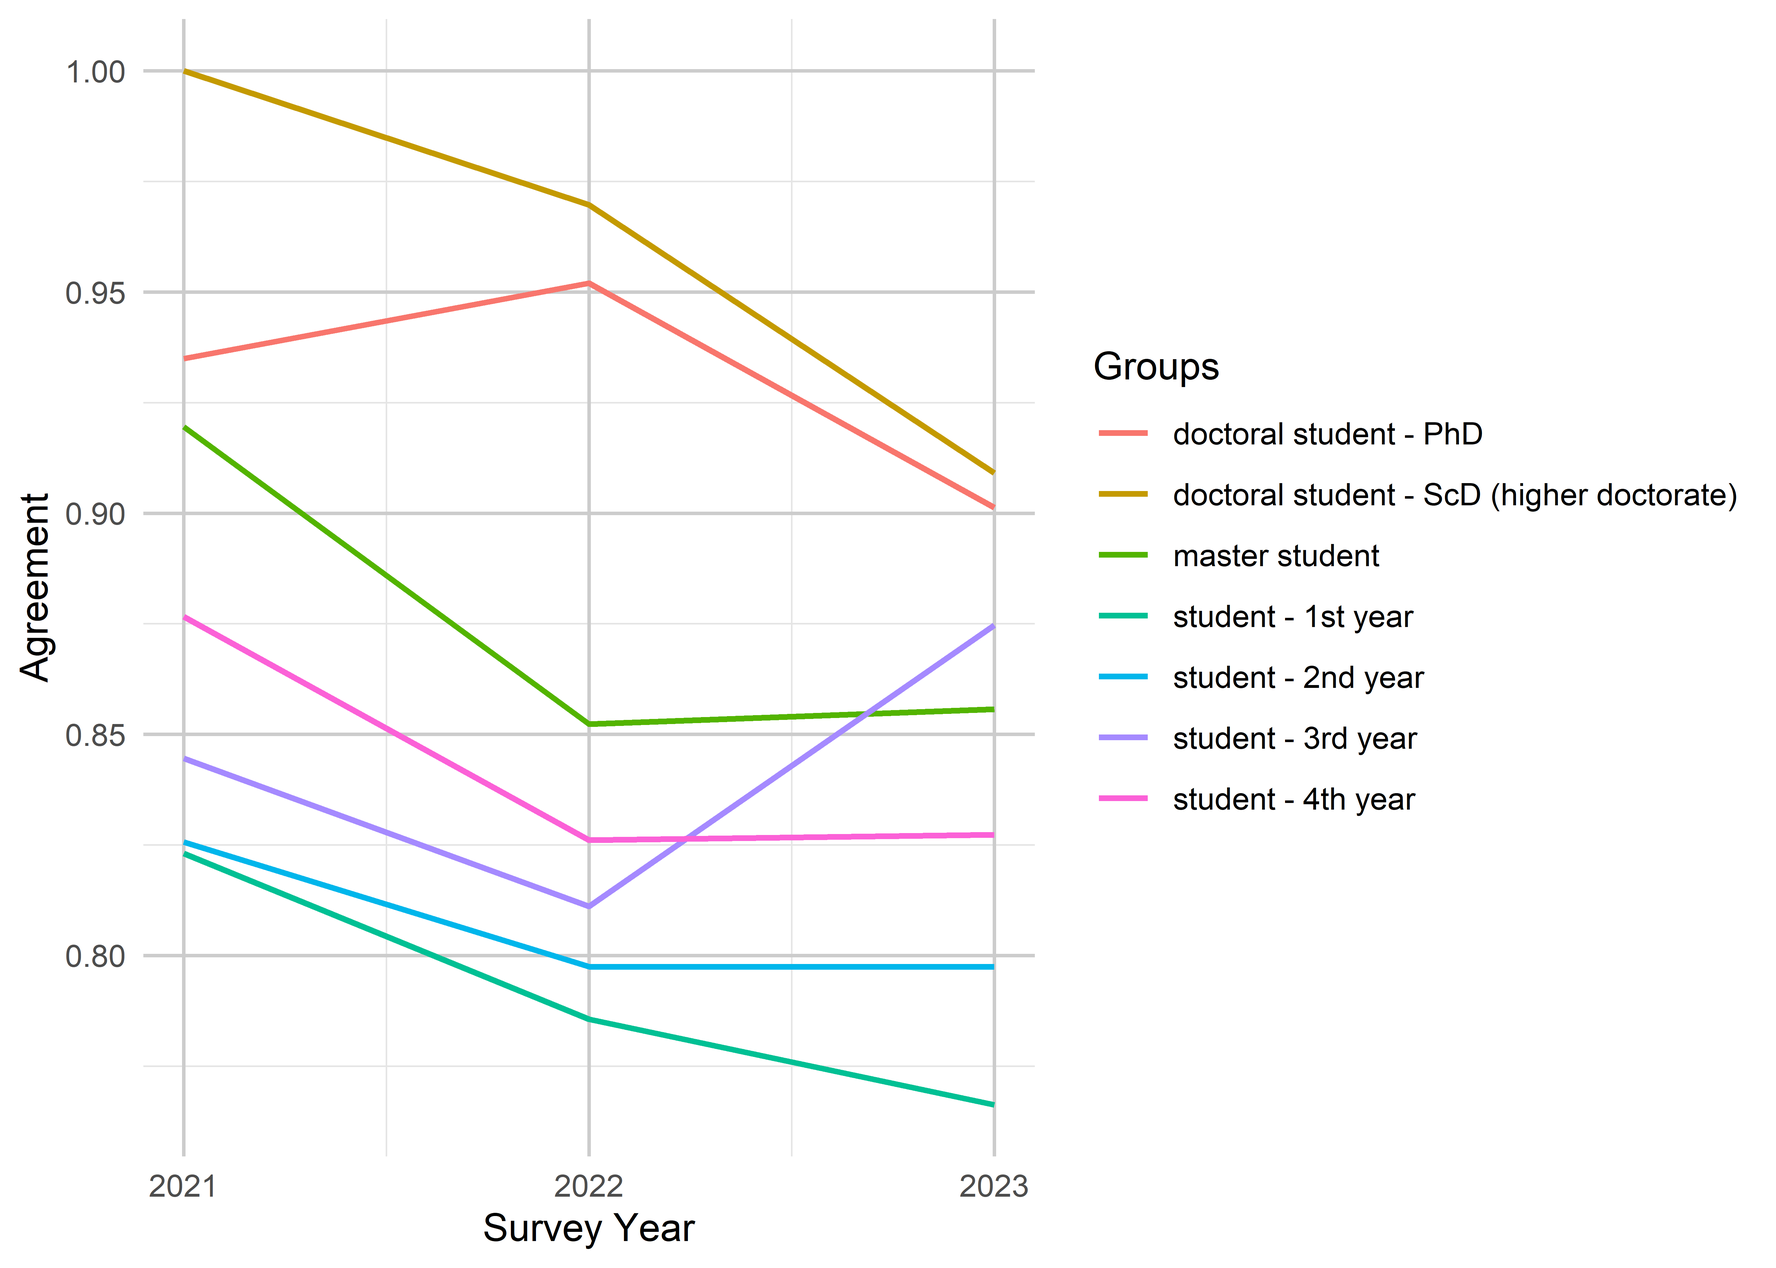
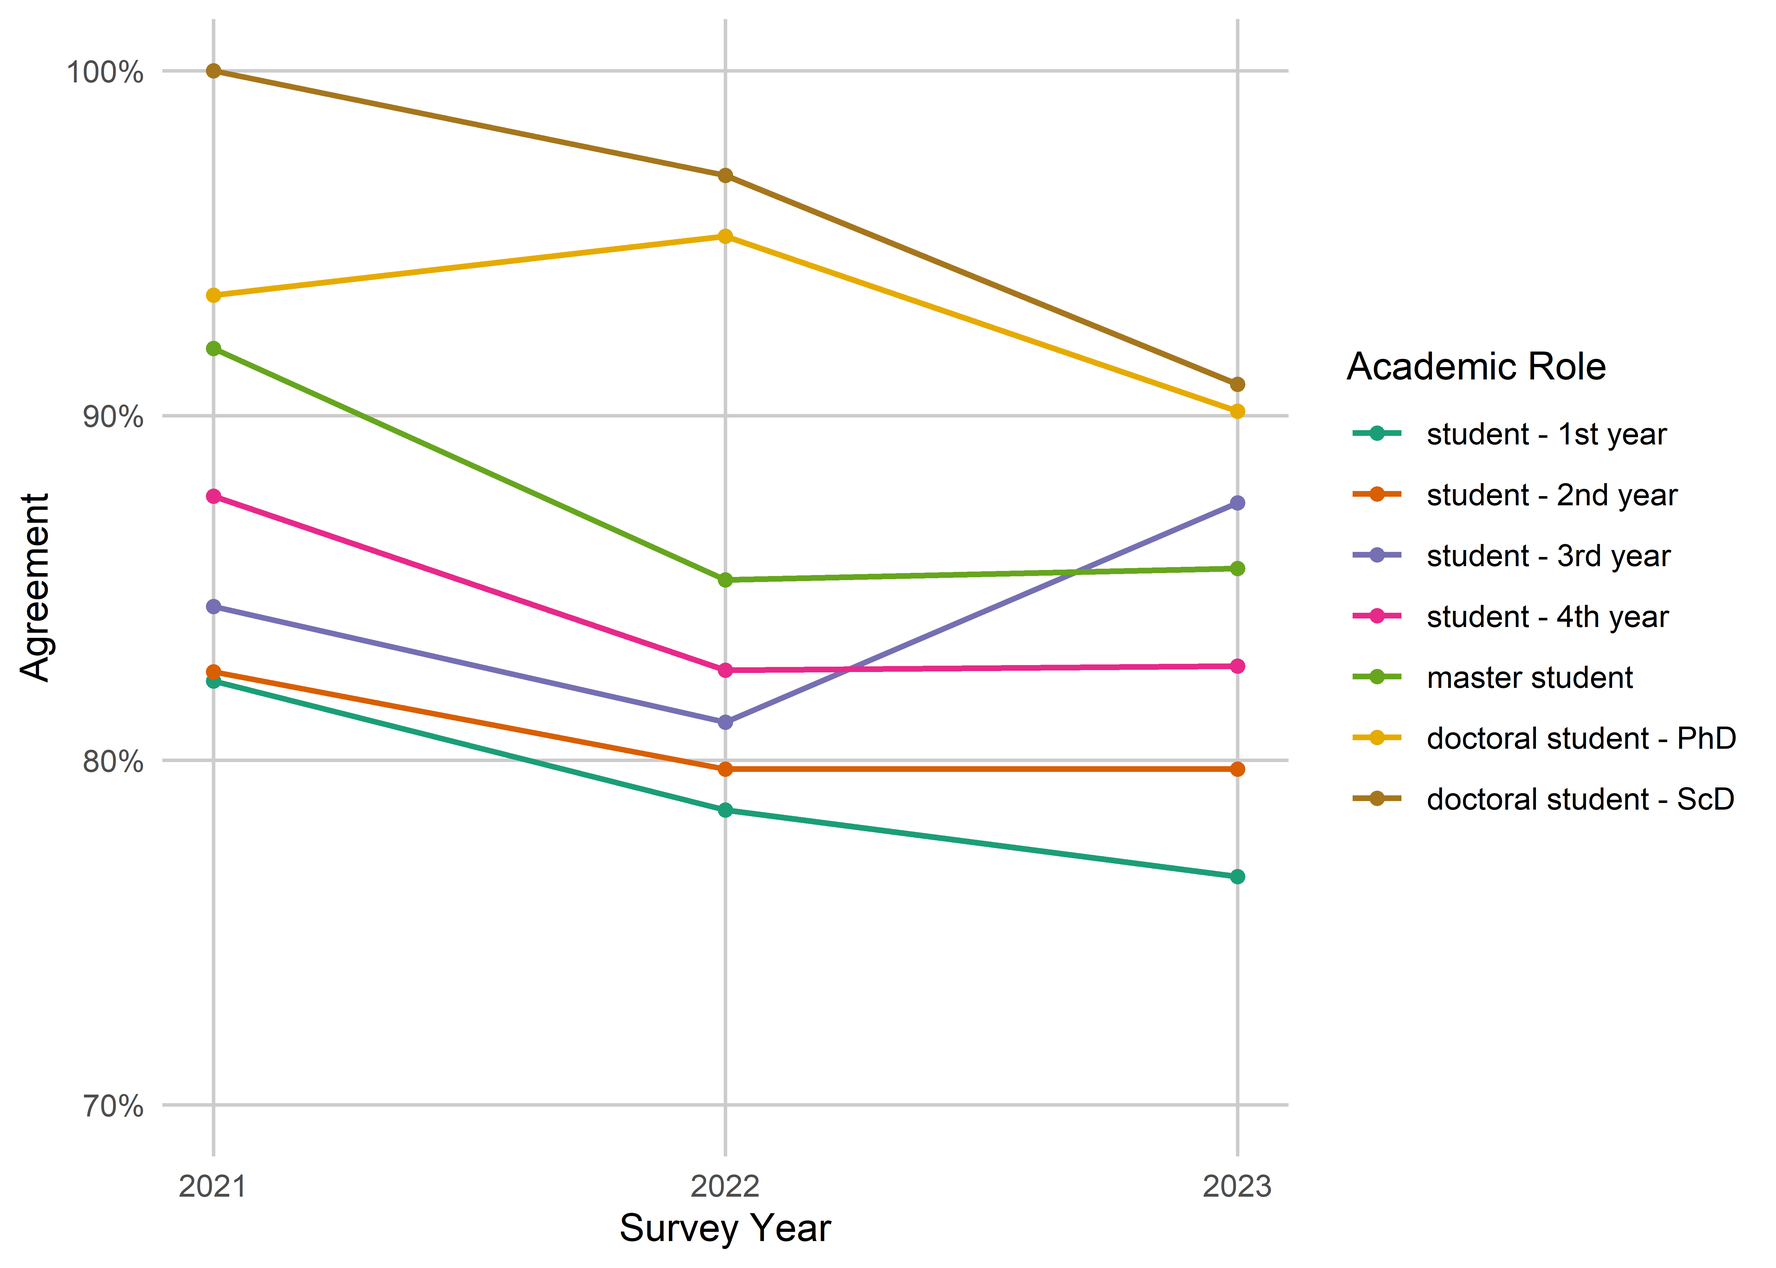
Explore more visualization options

diff --git a/analysis_notebooks/survey_analysis.html b/analysis_notebooks/survey_analysis.html
@@ -844,38 +844,78 @@ pre > code.sourceCode > span > a:first-child::before { text-decoration: underlin
 <section id="comparison-between-groups" class="level1">
 <h1>Comparison Between Groups</h1>
 <div class="cell">
-<div class="sourceCode cell-code" id="cb27"><pre class="sourceCode r code-with-copy"><code class="sourceCode r"><span id="cb27-1"><a href="#cb27-1" aria-hidden="true" tabindex="-1"></a>groups <span class="ot">&lt;-</span> df <span class="sc">%&gt;%</span> </span>
-<span id="cb27-2"><a href="#cb27-2" aria-hidden="true" tabindex="-1"></a>  <span class="co"># Dichotomize agreement</span></span>
-<span id="cb27-3"><a href="#cb27-3" aria-hidden="true" tabindex="-1"></a>  <span class="fu">mutate</span>(<span class="at">X52d =</span> <span class="fu">case_when</span>(</span>
-<span id="cb27-4"><a href="#cb27-4" aria-hidden="true" tabindex="-1"></a>    <span class="fu">str_detect</span>(X52, <span class="st">"</span><span class="sc">\\</span><span class="st">sagree$"</span>) <span class="sc">~</span> <span class="st">"agree"</span>,</span>
-<span id="cb27-5"><a href="#cb27-5" aria-hidden="true" tabindex="-1"></a>    <span class="fu">str_detect</span>(X52, <span class="st">"</span><span class="sc">\\</span><span class="st">sdisagree$"</span>) <span class="sc">~</span> <span class="st">"disagree"</span>,</span>
-<span id="cb27-6"><a href="#cb27-6" aria-hidden="true" tabindex="-1"></a>    <span class="fu">is.na</span>(X52) <span class="sc">~</span> <span class="st">"NA"</span>,</span>
-<span id="cb27-7"><a href="#cb27-7" aria-hidden="true" tabindex="-1"></a>    <span class="cn">TRUE</span> <span class="sc">~</span> X52)) <span class="sc">%&gt;%</span> </span>
-<span id="cb27-8"><a href="#cb27-8" aria-hidden="true" tabindex="-1"></a>  <span class="co"># Filter to calculate proportions of those that knew a response</span></span>
-<span id="cb27-9"><a href="#cb27-9" aria-hidden="true" tabindex="-1"></a>  <span class="fu">filter</span>(X52d <span class="sc">%in%</span> <span class="fu">c</span>(<span class="st">"agree"</span>, <span class="st">"disagree"</span>)) <span class="sc">%&gt;%</span> </span>
-<span id="cb27-10"><a href="#cb27-10" aria-hidden="true" tabindex="-1"></a>  <span class="fu">group_by</span>(X8, X64) <span class="sc">%&gt;%</span> </span>
-<span id="cb27-11"><a href="#cb27-11" aria-hidden="true" tabindex="-1"></a>  <span class="fu">summarise</span>(<span class="at">perc =</span> <span class="fu">sum</span>(X52d <span class="sc">==</span> <span class="st">"agree"</span>) <span class="sc">/</span> <span class="fu">n</span>()) <span class="sc">%&gt;%</span> </span>
-<span id="cb27-12"><a href="#cb27-12" aria-hidden="true" tabindex="-1"></a>  <span class="fu">ungroup</span>()</span>
-<span id="cb27-13"><a href="#cb27-13" aria-hidden="true" tabindex="-1"></a></span>
-<span id="cb27-14"><a href="#cb27-14" aria-hidden="true" tabindex="-1"></a>students <span class="ot">&lt;-</span> groups <span class="sc">%&gt;%</span> </span>
-<span id="cb27-15"><a href="#cb27-15" aria-hidden="true" tabindex="-1"></a>  <span class="fu">filter</span>(<span class="fu">str_detect</span>(X8, <span class="st">"student"</span>))</span>
-<span id="cb27-16"><a href="#cb27-16" aria-hidden="true" tabindex="-1"></a></span>
-<span id="cb27-17"><a href="#cb27-17" aria-hidden="true" tabindex="-1"></a>staff <span class="ot">&lt;-</span> groups <span class="sc">%&gt;%</span> </span>
-<span id="cb27-18"><a href="#cb27-18" aria-hidden="true" tabindex="-1"></a>  <span class="fu">filter</span>(<span class="sc">!</span><span class="fu">str_detect</span>(X8, <span class="st">"student"</span>))</span></code><button title="Copy to Clipboard" class="code-copy-button"><i class="bi"></i></button></pre></div>
+<div class="sourceCode cell-code" id="cb27"><pre class="sourceCode r code-with-copy"><code class="sourceCode r"><span id="cb27-1"><a href="#cb27-1" aria-hidden="true" tabindex="-1"></a>df<span class="sc">$</span>X8 <span class="ot">&lt;-</span> <span class="fu">factor</span>(df<span class="sc">$</span>X8, <span class="at">levels =</span> <span class="fu">c</span>(<span class="st">"student - 1st year"</span>, <span class="st">"student - 2nd year"</span>, <span class="st">"student - 3rd year"</span>, <span class="st">"student - 4th year"</span>, <span class="st">"master student"</span>, <span class="st">"doctoral student - PhD"</span>, <span class="st">"doctoral student - ScD (higher doctorate)"</span>, <span class="st">"faculty"</span>, <span class="st">"research staff"</span>, <span class="st">"university administrator"</span>, <span class="st">"librarian"</span>, <span class="st">"other"</span>))</span>
+<span id="cb27-2"><a href="#cb27-2" aria-hidden="true" tabindex="-1"></a></span>
+<span id="cb27-3"><a href="#cb27-3" aria-hidden="true" tabindex="-1"></a>groups <span class="ot">&lt;-</span> df <span class="sc">%&gt;%</span> </span>
+<span id="cb27-4"><a href="#cb27-4" aria-hidden="true" tabindex="-1"></a>  <span class="co"># Dichotomize agreement</span></span>
+<span id="cb27-5"><a href="#cb27-5" aria-hidden="true" tabindex="-1"></a>  <span class="fu">mutate</span>(<span class="at">X52d =</span> <span class="fu">case_when</span>(</span>
+<span id="cb27-6"><a href="#cb27-6" aria-hidden="true" tabindex="-1"></a>    <span class="fu">str_detect</span>(X52, <span class="st">"</span><span class="sc">\\</span><span class="st">sagree$"</span>) <span class="sc">~</span> <span class="st">"agree"</span>,</span>
+<span id="cb27-7"><a href="#cb27-7" aria-hidden="true" tabindex="-1"></a>    <span class="fu">str_detect</span>(X52, <span class="st">"</span><span class="sc">\\</span><span class="st">sdisagree$"</span>) <span class="sc">~</span> <span class="st">"disagree"</span>,</span>
+<span id="cb27-8"><a href="#cb27-8" aria-hidden="true" tabindex="-1"></a>    <span class="fu">is.na</span>(X52) <span class="sc">~</span> <span class="st">"NA"</span>,</span>
+<span id="cb27-9"><a href="#cb27-9" aria-hidden="true" tabindex="-1"></a>    <span class="cn">TRUE</span> <span class="sc">~</span> X52)) <span class="sc">%&gt;%</span> </span>
+<span id="cb27-10"><a href="#cb27-10" aria-hidden="true" tabindex="-1"></a>  <span class="co"># Filter to calculate proportions of those that knew a response</span></span>
+<span id="cb27-11"><a href="#cb27-11" aria-hidden="true" tabindex="-1"></a>  <span class="fu">filter</span>(X52d <span class="sc">%in%</span> <span class="fu">c</span>(<span class="st">"agree"</span>, <span class="st">"disagree"</span>)) <span class="sc">%&gt;%</span> </span>
+<span id="cb27-12"><a href="#cb27-12" aria-hidden="true" tabindex="-1"></a>  <span class="fu">group_by</span>(X8, X64) <span class="sc">%&gt;%</span> </span>
+<span id="cb27-13"><a href="#cb27-13" aria-hidden="true" tabindex="-1"></a>  <span class="fu">summarise</span>(<span class="at">perc =</span> <span class="fu">sum</span>(X52d <span class="sc">==</span> <span class="st">"agree"</span>) <span class="sc">/</span> <span class="fu">n</span>()) <span class="sc">%&gt;%</span> </span>
+<span id="cb27-14"><a href="#cb27-14" aria-hidden="true" tabindex="-1"></a>  <span class="fu">ungroup</span>() <span class="sc">%&gt;%</span> </span>
+<span id="cb27-15"><a href="#cb27-15" aria-hidden="true" tabindex="-1"></a>  <span class="fu">mutate</span>(<span class="at">X8 =</span> <span class="fu">fct_recode</span>(X8,</span>
+<span id="cb27-16"><a href="#cb27-16" aria-hidden="true" tabindex="-1"></a>                         <span class="st">"doctoral student - ScD"</span> <span class="ot">=</span></span>
+<span id="cb27-17"><a href="#cb27-17" aria-hidden="true" tabindex="-1"></a>                           <span class="st">"doctoral student - ScD (higher doctorate)"</span>))</span>
+<span id="cb27-18"><a href="#cb27-18" aria-hidden="true" tabindex="-1"></a></span>
+<span id="cb27-19"><a href="#cb27-19" aria-hidden="true" tabindex="-1"></a>students <span class="ot">&lt;-</span> groups <span class="sc">%&gt;%</span> </span>
+<span id="cb27-20"><a href="#cb27-20" aria-hidden="true" tabindex="-1"></a>  <span class="fu">filter</span>(<span class="fu">str_detect</span>(X8, <span class="st">"student"</span>))</span>
+<span id="cb27-21"><a href="#cb27-21" aria-hidden="true" tabindex="-1"></a></span>
+<span id="cb27-22"><a href="#cb27-22" aria-hidden="true" tabindex="-1"></a>staff <span class="ot">&lt;-</span> groups <span class="sc">%&gt;%</span> </span>
+<span id="cb27-23"><a href="#cb27-23" aria-hidden="true" tabindex="-1"></a>  <span class="fu">filter</span>(<span class="sc">!</span><span class="fu">str_detect</span>(X8, <span class="st">"student"</span>))</span></code><button title="Copy to Clipboard" class="code-copy-button"><i class="bi"></i></button></pre></div>
 </div>
 <div class="cell">
 <div class="sourceCode cell-code" id="cb28"><pre class="sourceCode r code-with-copy"><code class="sourceCode r"><span id="cb28-1"><a href="#cb28-1" aria-hidden="true" tabindex="-1"></a><span class="fu">ggplot</span>(students, <span class="fu">aes</span>(<span class="at">x =</span> X64, <span class="at">y =</span> perc, <span class="at">color =</span> X8)) <span class="sc">+</span> </span>
 <span id="cb28-2"><a href="#cb28-2" aria-hidden="true" tabindex="-1"></a>    <span class="fu">geom_line</span>(<span class="at">size =</span> <span class="fl">0.8</span>) <span class="sc">+</span></span>
-<span id="cb28-3"><a href="#cb28-3" aria-hidden="true" tabindex="-1"></a>    <span class="fu">labs</span>(<span class="at">x =</span> <span class="st">"Survey Year"</span>, <span class="at">y =</span> <span class="st">"Agreement"</span>, <span class="at">color =</span> <span class="st">"Groups"</span>) <span class="sc">+</span></span>
-<span id="cb28-4"><a href="#cb28-4" aria-hidden="true" tabindex="-1"></a>    <span class="fu">scale_x_continuous</span>(<span class="at">breaks =</span> <span class="fu">c</span>(<span class="dv">2021</span>, <span class="dv">2022</span>, <span class="dv">2023</span>)) <span class="sc">+</span></span>
-<span id="cb28-5"><a href="#cb28-5" aria-hidden="true" tabindex="-1"></a>    <span class="co">#scale_y_continuous(labels = function(x) paste0(x, "%")) +</span></span>
-<span id="cb28-6"><a href="#cb28-6" aria-hidden="true" tabindex="-1"></a>    <span class="fu">theme</span>(<span class="at">panel.grid.major =</span> <span class="fu">element_line</span>(<span class="at">color =</span> <span class="st">"grey80"</span>),</span>
-<span id="cb28-7"><a href="#cb28-7" aria-hidden="true" tabindex="-1"></a>          <span class="at">panel.grid.minor =</span> <span class="fu">element_line</span>(<span class="at">color =</span> <span class="st">"grey90"</span>),</span>
-<span id="cb28-8"><a href="#cb28-8" aria-hidden="true" tabindex="-1"></a>          <span class="at">panel.background =</span> <span class="fu">element_blank</span>(),</span>
-<span id="cb28-9"><a href="#cb28-9" aria-hidden="true" tabindex="-1"></a>          <span class="at">plot.title =</span> <span class="fu">element_text</span>(<span class="at">size =</span> <span class="dv">10</span>, <span class="at">hjust =</span> <span class="fl">0.5</span>),</span>
-<span id="cb28-10"><a href="#cb28-10" aria-hidden="true" tabindex="-1"></a>          <span class="at">axis.ticks =</span> <span class="fu">element_blank</span>())</span></code><button title="Copy to Clipboard" class="code-copy-button"><i class="bi"></i></button></pre></div>
+<span id="cb28-3"><a href="#cb28-3" aria-hidden="true" tabindex="-1"></a>    <span class="fu">geom_point</span>() <span class="sc">+</span></span>
+<span id="cb28-4"><a href="#cb28-4" aria-hidden="true" tabindex="-1"></a>    <span class="fu">labs</span>(<span class="at">x =</span> <span class="st">"Survey Year"</span>, <span class="at">y =</span> <span class="st">"Agreement"</span>, <span class="at">color =</span> <span class="st">"Academic Role"</span>) <span class="sc">+</span></span>
+<span id="cb28-5"><a href="#cb28-5" aria-hidden="true" tabindex="-1"></a>    <span class="fu">scale_x_continuous</span>(<span class="at">breaks =</span> <span class="fu">c</span>(<span class="dv">2021</span>, <span class="dv">2022</span>, <span class="dv">2023</span>)) <span class="sc">+</span></span>
+<span id="cb28-6"><a href="#cb28-6" aria-hidden="true" tabindex="-1"></a>    <span class="fu">scale_y_continuous</span>(<span class="at">labels =</span> scales<span class="sc">::</span>percent, <span class="at">limits =</span> <span class="fu">c</span>(<span class="fl">0.7</span>, <span class="dv">1</span>)) <span class="sc">+</span></span>
+<span id="cb28-7"><a href="#cb28-7" aria-hidden="true" tabindex="-1"></a>    <span class="fu">scale_color_brewer</span>(<span class="at">palette =</span> <span class="st">"Dark2"</span>) <span class="sc">+</span></span>
+<span id="cb28-8"><a href="#cb28-8" aria-hidden="true" tabindex="-1"></a>    <span class="fu">theme</span>(<span class="at">panel.grid.major =</span> <span class="fu">element_line</span>(<span class="at">color =</span> <span class="st">"grey80"</span>),</span>
+<span id="cb28-9"><a href="#cb28-9" aria-hidden="true" tabindex="-1"></a>          <span class="co">#panel.grid.minor = element_line(color = "grey90"),</span></span>
+<span id="cb28-10"><a href="#cb28-10" aria-hidden="true" tabindex="-1"></a>          <span class="at">panel.background =</span> <span class="fu">element_blank</span>(),</span>
+<span id="cb28-11"><a href="#cb28-11" aria-hidden="true" tabindex="-1"></a>          <span class="at">plot.title =</span> <span class="fu">element_text</span>(<span class="at">size =</span> <span class="dv">10</span>, <span class="at">hjust =</span> <span class="fl">0.5</span>),</span>
+<span id="cb28-12"><a href="#cb28-12" aria-hidden="true" tabindex="-1"></a>          <span class="at">axis.ticks =</span> <span class="fu">element_blank</span>())</span></code><button title="Copy to Clipboard" class="code-copy-button"><i class="bi"></i></button></pre></div>
 <div class="cell-output-display">
 <p><img src="survey_analysis_files/figure-html/unnamed-chunk-15-1.png" class="img-fluid" width="2800"></p>
+</div>
+</div>
+<div class="cell">
+<div class="sourceCode cell-code" id="cb29"><pre class="sourceCode r code-with-copy"><code class="sourceCode r"><span id="cb29-1"><a href="#cb29-1" aria-hidden="true" tabindex="-1"></a><span class="fu">ggplot</span>(staff, <span class="fu">aes</span>(<span class="at">x =</span> X64, <span class="at">y =</span> perc, <span class="at">color =</span> X8)) <span class="sc">+</span> </span>
+<span id="cb29-2"><a href="#cb29-2" aria-hidden="true" tabindex="-1"></a>    <span class="fu">geom_line</span>(<span class="at">size =</span> <span class="fl">0.8</span>) <span class="sc">+</span></span>
+<span id="cb29-3"><a href="#cb29-3" aria-hidden="true" tabindex="-1"></a>    <span class="fu">geom_point</span>(<span class="at">shape =</span> <span class="dv">15</span>) <span class="sc">+</span></span>
+<span id="cb29-4"><a href="#cb29-4" aria-hidden="true" tabindex="-1"></a>    <span class="fu">labs</span>(<span class="at">x =</span> <span class="st">"Survey Year"</span>, <span class="at">y =</span> <span class="st">"Agreement"</span>, <span class="at">color =</span> <span class="st">"Academic Role"</span>) <span class="sc">+</span></span>
+<span id="cb29-5"><a href="#cb29-5" aria-hidden="true" tabindex="-1"></a>    <span class="fu">scale_x_continuous</span>(<span class="at">breaks =</span> <span class="fu">c</span>(<span class="dv">2021</span>, <span class="dv">2022</span>, <span class="dv">2023</span>)) <span class="sc">+</span></span>
+<span id="cb29-6"><a href="#cb29-6" aria-hidden="true" tabindex="-1"></a>    <span class="fu">scale_y_continuous</span>(<span class="at">labels =</span> scales<span class="sc">::</span>percent, <span class="at">limits =</span> <span class="fu">c</span>(<span class="fl">0.7</span>, <span class="dv">1</span>)) <span class="sc">+</span></span>
+<span id="cb29-7"><a href="#cb29-7" aria-hidden="true" tabindex="-1"></a>    <span class="fu">scale_color_brewer</span>(<span class="at">palette =</span> <span class="st">"Dark2"</span>) <span class="sc">+</span></span>
+<span id="cb29-8"><a href="#cb29-8" aria-hidden="true" tabindex="-1"></a>    <span class="fu">theme</span>(<span class="at">panel.grid.major =</span> <span class="fu">element_line</span>(<span class="at">color =</span> <span class="st">"grey80"</span>),</span>
+<span id="cb29-9"><a href="#cb29-9" aria-hidden="true" tabindex="-1"></a>          <span class="co">#panel.grid.minor = element_line(color = "grey90"),</span></span>
+<span id="cb29-10"><a href="#cb29-10" aria-hidden="true" tabindex="-1"></a>          <span class="at">panel.background =</span> <span class="fu">element_blank</span>(),</span>
+<span id="cb29-11"><a href="#cb29-11" aria-hidden="true" tabindex="-1"></a>          <span class="at">plot.title =</span> <span class="fu">element_text</span>(<span class="at">size =</span> <span class="dv">10</span>, <span class="at">hjust =</span> <span class="fl">0.5</span>),</span>
+<span id="cb29-12"><a href="#cb29-12" aria-hidden="true" tabindex="-1"></a>          <span class="at">axis.ticks =</span> <span class="fu">element_blank</span>())</span></code><button title="Copy to Clipboard" class="code-copy-button"><i class="bi"></i></button></pre></div>
+<div class="cell-output-display">
+<p><img src="survey_analysis_files/figure-html/unnamed-chunk-16-1.png" class="img-fluid" width="2800"></p>
+</div>
+</div>
+<div class="cell">
+<div class="sourceCode cell-code" id="cb30"><pre class="sourceCode r code-with-copy"><code class="sourceCode r"><span id="cb30-1"><a href="#cb30-1" aria-hidden="true" tabindex="-1"></a><span class="fu">ggplot</span>(groups, <span class="fu">aes</span>(<span class="at">x =</span> X8, <span class="at">y =</span> perc, <span class="at">fill =</span> <span class="fu">as.factor</span>(X64))) <span class="sc">+</span></span>
+<span id="cb30-2"><a href="#cb30-2" aria-hidden="true" tabindex="-1"></a>  <span class="fu">geom_bar</span>(<span class="at">stat =</span> <span class="st">"identity"</span>, <span class="at">position =</span> <span class="st">"dodge"</span>, <span class="at">color =</span> <span class="st">"black"</span>) <span class="sc">+</span></span>
+<span id="cb30-3"><a href="#cb30-3" aria-hidden="true" tabindex="-1"></a>  <span class="fu">geom_hline</span>(<span class="at">yintercept =</span> <span class="dv">0</span>) <span class="sc">+</span></span>
+<span id="cb30-4"><a href="#cb30-4" aria-hidden="true" tabindex="-1"></a>  <span class="fu">labs</span>(<span class="at">x =</span> <span class="st">"Academic Role"</span>, <span class="at">y =</span> <span class="st">"Agreement"</span>, <span class="at">fill =</span> <span class="st">"Survey Year"</span>) <span class="sc">+</span></span>
+<span id="cb30-5"><a href="#cb30-5" aria-hidden="true" tabindex="-1"></a>  <span class="fu">scale_y_continuous</span>(<span class="at">labels =</span> scales<span class="sc">::</span>percent) <span class="sc">+</span></span>
+<span id="cb30-6"><a href="#cb30-6" aria-hidden="true" tabindex="-1"></a>  <span class="fu">scale_fill_brewer</span>(<span class="at">palette =</span> <span class="st">"Blues"</span>) <span class="sc">+</span></span>
+<span id="cb30-7"><a href="#cb30-7" aria-hidden="true" tabindex="-1"></a>  <span class="fu">theme</span>(<span class="at">panel.grid.major =</span> <span class="fu">element_line</span>(<span class="at">color =</span> <span class="st">"grey80"</span>),</span>
+<span id="cb30-8"><a href="#cb30-8" aria-hidden="true" tabindex="-1"></a>        <span class="at">panel.background =</span> <span class="fu">element_blank</span>(),</span>
+<span id="cb30-9"><a href="#cb30-9" aria-hidden="true" tabindex="-1"></a>        <span class="at">plot.title =</span> <span class="fu">element_text</span>(<span class="at">size =</span> <span class="dv">10</span>, <span class="at">hjust =</span> <span class="fl">0.5</span>),</span>
+<span id="cb30-10"><a href="#cb30-10" aria-hidden="true" tabindex="-1"></a>        <span class="at">axis.ticks =</span> <span class="fu">element_blank</span>(),</span>
+<span id="cb30-11"><a href="#cb30-11" aria-hidden="true" tabindex="-1"></a>        <span class="at">axis.text.x =</span> <span class="fu">element_text</span>(<span class="at">angle =</span> <span class="dv">45</span>, <span class="at">hjust =</span> <span class="dv">1</span>))</span></code><button title="Copy to Clipboard" class="code-copy-button"><i class="bi"></i></button></pre></div>
+<div class="cell-output-display">
+<p><img src="survey_analysis_files/figure-html/unnamed-chunk-17-1.png" class="img-fluid" width="2800"></p>
 </div>
 </div>
 </section>
